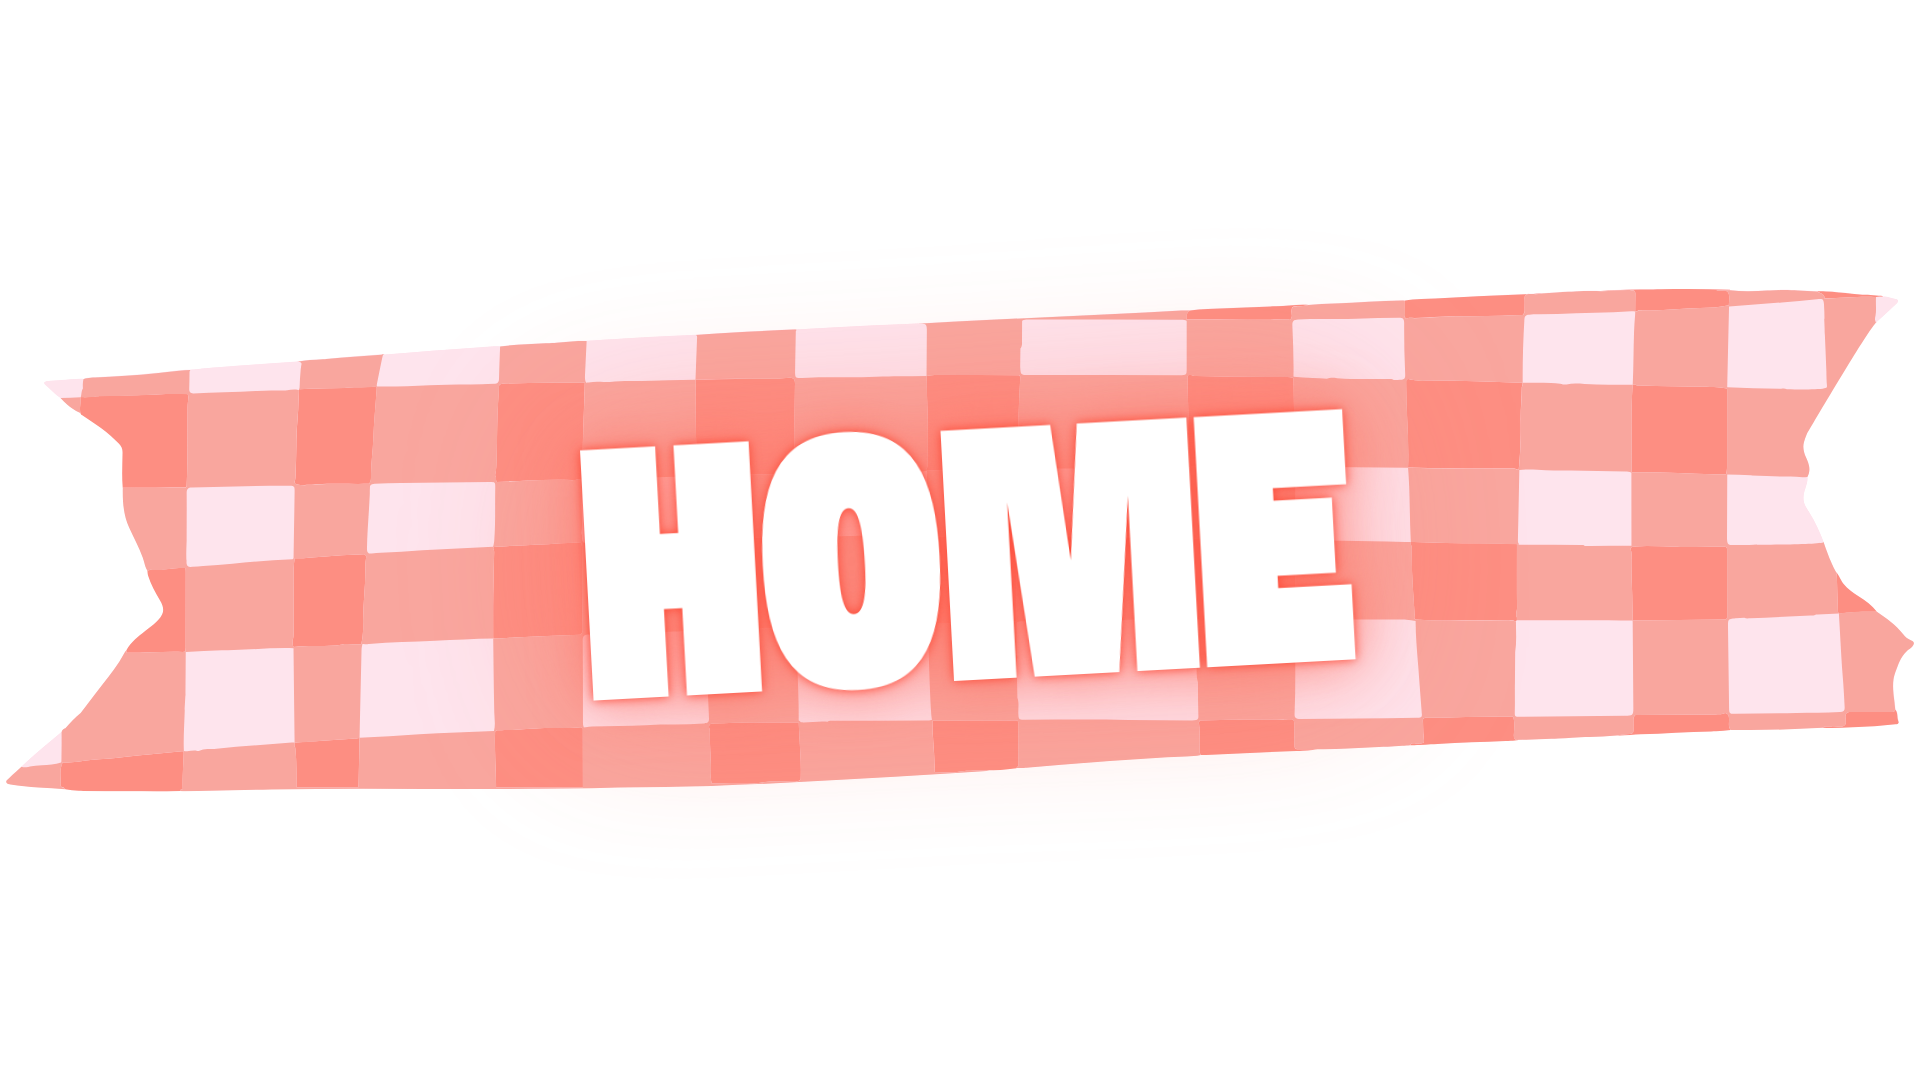
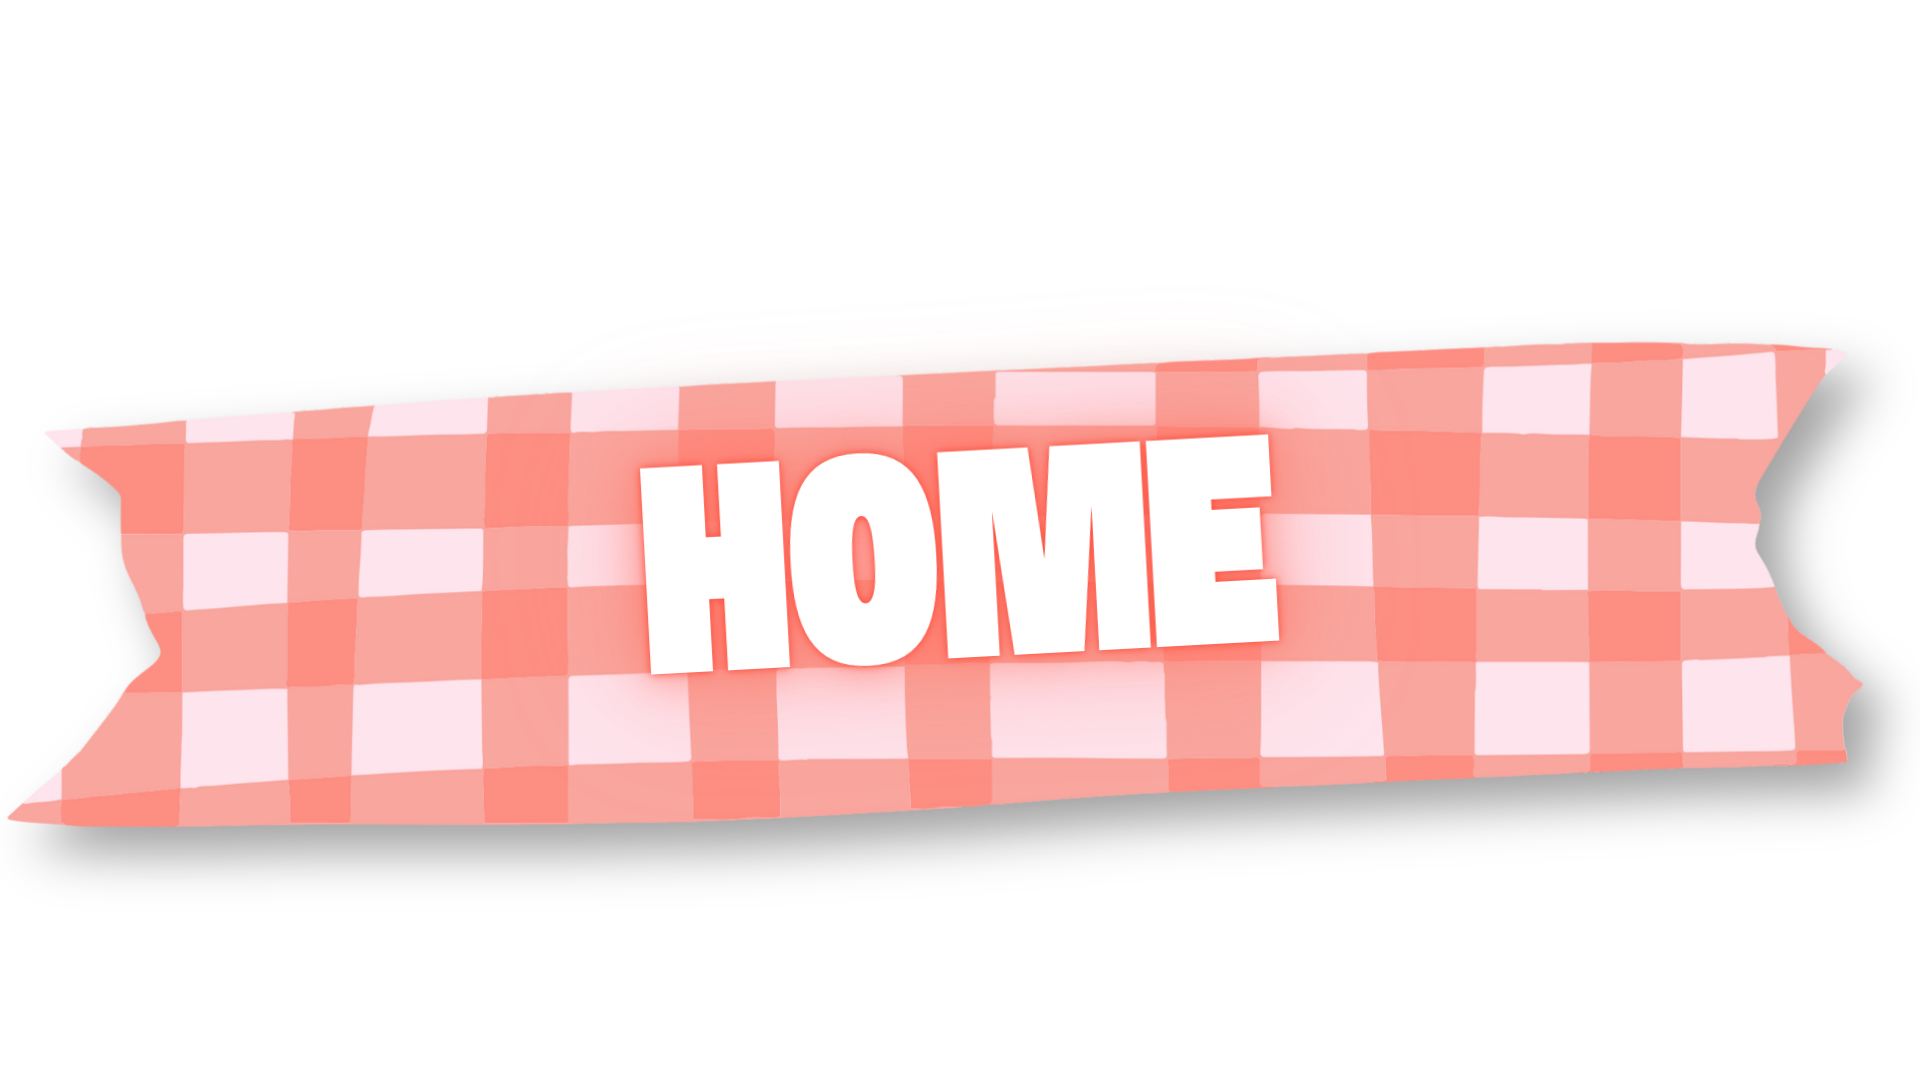
Re-uploaded the navbar assets - now they have shadows Added shadows for some buttons/ other elements

diff --git a/my-portfolio/src/components/MyStackComponent.jsx b/my-portfolio/src/components/MyStackComponent.jsx
@@ -12,7 +12,7 @@ function Stack() {
 
                 <Col lg={4} md={6} sm={12} className="my-stack-col" >
                     <span className="tech-category-text">Backend</span>
-                    <Card className="tech-card">
+                    <Card className="tech-card shadow">
                         <Card.Img
                             variant="top"
                             src="/assets/notepad1.png"
@@ -24,7 +24,7 @@ function Stack() {
 
                 <Col lg={4} md={6} sm={12} className="my-stack-col">
                     <span className="tech-category-text">Frontend</span>
-                    <Card className="tech-card">
+                    <Card className="tech-card shadow">
                         <Card.Img
                             variant="top"
                             src="/assets/notepad2.png"
@@ -36,7 +36,7 @@ function Stack() {
 
                 <Col lg={4} md={6} sm={12} className="my-stack-col">
                     <span className="tech-category-text">Other technologies</span>
-                    <Card className="tech-card">
+                    <Card className="tech-card shadow">
 
                         <Card.Img
                             variant="top"
@@ -58,7 +58,7 @@ function Stack() {
                 <h4 className="h4-github">You can see my work here</h4>
                  <FaArrowDown className="arrow-down"/>
                 <Link to="https://github.com/adelinavaitus">
-                    <Button className="github-button">Github <FaGithub />
+                    <Button className="github-button shadow">Github <FaGithub />
                     </Button>
                 </Link>
 

diff --git a/my-portfolio/src/components/HomeComponent.jsx b/my-portfolio/src/components/HomeComponent.jsx
@@ -29,16 +29,16 @@ function Home() {
 
                         <div className="buttons-container">
                             <Link to="/contact">
-                                <Button className="colaborate-button">Get in touch</Button>
+                                <Button className="colaborate-button shadow">Get in touch</Button>
                             </Link>
                             <Link to="/projects">
-                                <Button className="work-button" variant="secondary">See my work</Button>
+                                <Button className="work-button shadow" variant="secondary">See my work</Button>
                             </Link>
                         </div>
                         
                         <div>
                             <a href="mailto:adelinavaitus@gmail.com">
-                                <MdEmail className="home-icon" />
+                                <MdEmail className="home-icon " />
                             </a>
                             <Link to="https://github.com/adelinavaitus">
                                 <FaGithub className="home-icon" />

diff --git a/my-portfolio/src/components/ContactMeComponent.jsx b/my-portfolio/src/components/ContactMeComponent.jsx
@@ -16,12 +16,12 @@ function Contact() {
 
             <div className="buttons-container-contact">
                 <Link to="https://www.linkedin.com/in/adelina-vaitus-994617209">
-                    <Button className="linkedin-button">Linked
+                    <Button className="linkedin-button shadow">Linked
                         <FaLinkedin className="linkedin-logo" />
                     </Button>
                 </Link>
                 <Link to="mailto:adelinavaitus@gmail.com">
-                    <Button className="email-button">Send me an email
+                    <Button className="email-button shadow">Send me an email
                         <MdOutgoingMail className="email-logo" />
                     </Button>
                 </Link>

diff --git a/my-portfolio/src/components/HeaderComponent.jsx b/my-portfolio/src/components/HeaderComponent.jsx
@@ -7,7 +7,7 @@ function Header() {
         <Navbar className="navbar" variant="dark" expand="lg">
             <Container>
                 <Nav className="ms-auto">
-                    <Nav.Item className="nav-item">
+                    <Nav.Item className="nav-item ">
                         <Link to="/" className="link-style">
                             <div className="nav-icon" style={{ backgroundImage: 'url(/assets/washi-tape-home.png)' }}>
                             </div>

diff --git a/my-portfolio/src/App.css b/my-portfolio/src/App.css
@@ -196,3 +196,7 @@ h4.h4-github{
   margin: 0px;
   padding-top: 30px;
 }
+
+.shadow{
+  box-shadow: 0px 0px 0px rgba(0, 0, 0, 0.3);
+}
